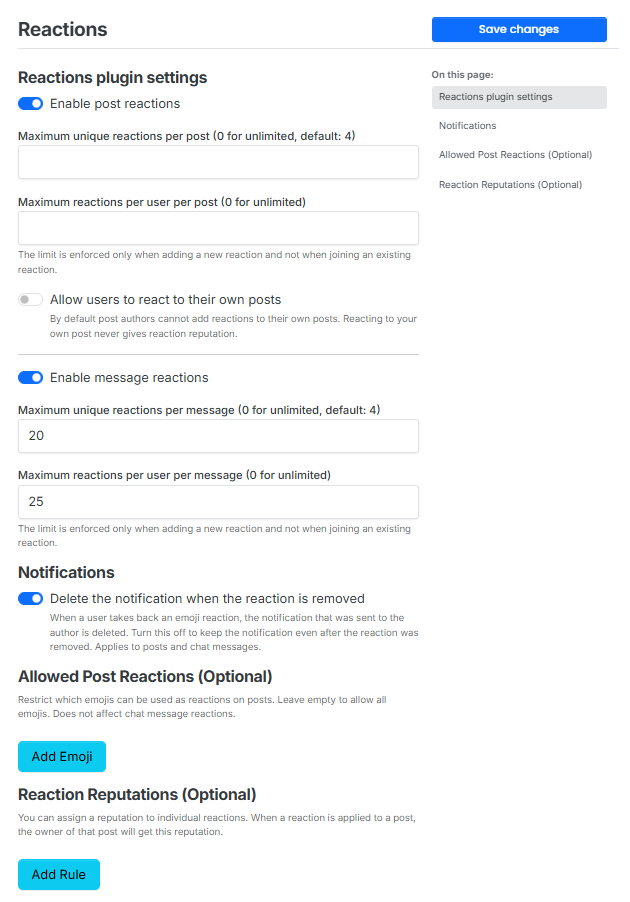
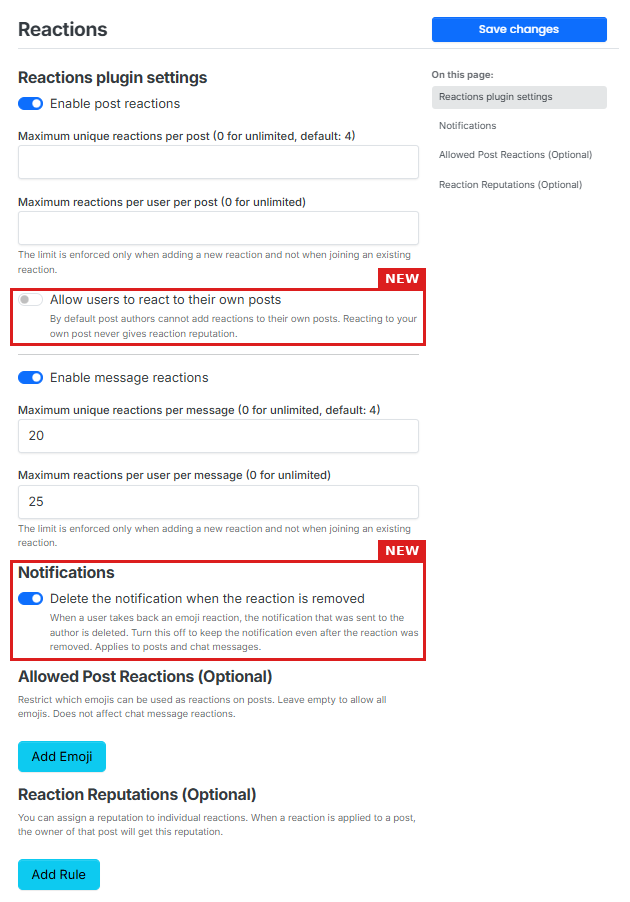
Mark new settings in screenshots; drop settings table from README
Claude-Session: https://claude.ai/code/session_01LwPuGoKBUZddf3LL5okFjB

Changed region(s): [[0.0, 0.5898, 0.6937, 0.745], [0.0, 0.2794, 0.6937, 0.3725], [0.0302, 0.3725, 0.6635, 0.4035]]

diff --git a/README.md b/README.md
@@ -22,9 +22,13 @@ The package keeps the original name (`@clickandgo/nodebb-plugin-reactions`), so 
 
 ### Plugin settings (ACP > Plugins > Reactions)
 
+Red frames mark what this fork adds.
+
 ![Reactions settings](./assets/acp-reactions.png)
 
 ### Built-in upvote switch (ACP > Settings > Reputation & Flags)
+
+Red frame marks what this fork adds.
 
 ![Reputation settings](./assets/acp-reputation.png)
 
@@ -43,21 +47,6 @@ The package keeps the original name (`@clickandgo/nodebb-plugin-reactions`), so 
 ## Emojis in topic titles and notifications
 
 To see emojis as images in topic titles and notifications from other plugins, turn on "Parse emojis in topic titles" in the settings of `nodebb-plugin-emoji`.
-
-## Settings
-
-| Setting | What it does |
-| --- | --- |
-| Enable post reactions | Turns reactions on posts on or off. |
-| Maximum unique reactions per post | How many different emojis one post can have (0 = unlimited, default 4). |
-| Maximum reactions per user per post | How many emojis one user can put on a post (0 = unlimited). Only enforced when adding a new emoji, not when joining an existing one. |
-| Allow users to react to their own posts | Off by default. |
-| Enable message reactions | Turns reactions on chat messages on or off. |
-| Maximum unique reactions per message | Same as for posts, for chat messages. |
-| Maximum reactions per user per message | Same as for posts, for chat messages. |
-| Delete the notification when the reaction is removed | See above. |
-| Allowed post reactions | Restricts which emojis can be used on posts. Empty = all emojis. Does not affect chats. |
-| Reaction reputations | Gives the post author reputation when a specific emoji is used on their post; taken back when the reaction is removed. |
 
 ## License
 
